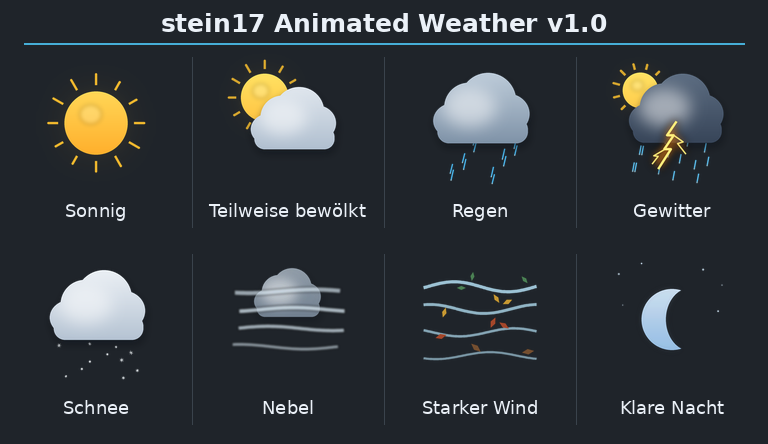
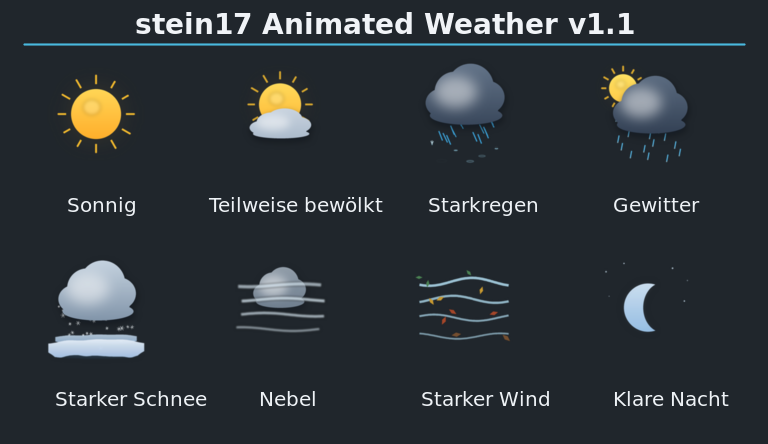
Update stein17 Animated Weather to v1.1

diff --git a/BundesligaWQHD/usr/lib/enigma2/python/Components/Renderer/BLWQHDAnimatedWeatherPixmap.py b/BundesligaWQHD/usr/lib/enigma2/python/Components/Renderer/BLWQHDAnimatedWeatherPixmap.py
@@ -90,6 +90,7 @@ class BLWQHDAnimatedWeatherPixmap(Renderer):
 		self.frames = []
 		self.frameIndex = 0
 		self.animationPath = ""
+		self.conditionText = ""
 
 	@classmethod
 	def getWeatherMap(cls, animationPath):
@@ -154,6 +155,55 @@ class BLWQHDAnimatedWeatherPixmap(Renderer):
 				code = ""
 		return code.upper() if code else "NA"
 
+	def getConditionText(self):
+		"""Liest den zum Widget gehoerenden OAWeather-Beschreibungstext.
+
+		MSN liefert gelegentlich fuer "teilweise sonnig" und "teilweise
+		bewoelkt" denselben Yahoo-Code. Der Text bleibt aber verschieden und
+		erlaubt dem Renderer deshalb eine eindeutige Motivauswahl.
+		"""
+		try:
+			converter = self.source
+			index = getattr(converter, "index", None)
+			weatherSource = getattr(converter, "source", None)
+			if index is not None and weatherSource is not None:
+				return str(weatherSource.getKeyforDay("text", index, "") or "").strip()
+		except Exception:
+			pass
+		return ""
+
+	def getMappedFolder(self, code, animationPath, conditionText=""):
+		mapping = self.getWeatherMap(animationPath)
+		entry = mapping.get(code, mapping.get("NA", {}))
+		folder = entry.get("icon", "") if isinstance(entry, dict) else str(entry)
+		text = ""
+		if conditionText:
+			text = conditionText.casefold().replace("ä", "ae").replace("ö", "oe").replace("ü", "ue")
+
+		# Die beiden verwechselbaren Tagesvarianten anhand des Textes trennen.
+		if code in ("30", "34") and text:
+			if any(word in text for word in ("sonnig", "heiter", "sunny", "fair")):
+				folder = "mostly-sunny-day"
+			elif any(word in text for word in ("bewoelkt", "cloudy")):
+				folder = "partly-cloudy-day"
+
+		# MSN/OAWeather kann auch bei Regenlagen unterschiedliche Codes mit
+		# demselben sichtbaren Text liefern. Nur eindeutig benannte Regenstufen
+		# werden deshalb textbasiert vereinheitlicht; Schauer und Gewitter
+		# bleiben weiterhin vollständig mapping.json-gesteuert.
+		if text:
+			if any(word in text for word in ("gefrierender regen", "gefrierender nieselregen", "freezing rain", "freezing drizzle")):
+				folder = "freezing-rain"
+			elif any(word in text for word in ("starker regen", "starkregen", "heavy rain", "heavy rainfall")):
+				folder = "heavy-rain"
+			elif any(word in text for word in ("leichter regen", "leichter regenfall", "light rain", "light rainfall")):
+				folder = "light-rain"
+			elif any(word in text for word in ("nieselregen", "spruehregen", "drizzle")):
+				folder = "drizzle"
+			elif text.strip(" .,-") in ("regen", "regenfall", "rain", "rainfall"):
+				folder = "rain"
+		return folder
+
 	def animationEnabled(self):
 		if weather_animation_config is None:
 			return True
@@ -171,10 +221,8 @@ class BLWQHDAnimatedWeatherPixmap(Renderer):
 			value = DEFAULT_FRAME_INTERVAL
 		return max(100, min(500, value))
 
-	def loadFrames(self, code, animationPath):
-		mapping = self.getWeatherMap(animationPath)
-		entry = mapping.get(code, mapping.get("NA", {}))
-		folder = entry.get("icon", "") if isinstance(entry, dict) else str(entry)
+	def loadFrames(self, code, animationPath, conditionText=""):
+		folder = self.getMappedFolder(code, animationPath, conditionText)
 		framePath = join(animationPath, folder)
 		frames = []
 		if folder and exists(framePath):
@@ -205,6 +253,7 @@ class BLWQHDAnimatedWeatherPixmap(Renderer):
 			_AnimationClock.remove(self)
 			self.code = ""
 			self.animationPath = ""
+			self.conditionText = ""
 			self.frames = []
 			self.instance.hide()
 			return
@@ -217,13 +266,15 @@ class BLWQHDAnimatedWeatherPixmap(Renderer):
 			return
 
 		code = self.getWeatherCode()
+		conditionText = self.getConditionText()
 		animationPath = self.getAnimationPath()
-		if code == self.code and animationPath == self.animationPath and self.frames:
+		if code == self.code and animationPath == self.animationPath and conditionText == self.conditionText and self.frames:
 			return
 		_AnimationClock.remove(self)
 		self.code = code
 		self.animationPath = animationPath
-		self.frames = self.loadFrames(code, animationPath)
+		self.conditionText = conditionText
+		self.frames = self.loadFrames(code, animationPath, conditionText)
 		self.frameIndex = 0
 		if not self.frames:
 			self.showStaticFallback()

diff --git a/BundesligaFHD/usr/lib/enigma2/python/Components/Renderer/BLFHDAnimatedWeatherPixmap.py b/BundesligaFHD/usr/lib/enigma2/python/Components/Renderer/BLFHDAnimatedWeatherPixmap.py
@@ -90,6 +90,7 @@ class BLFHDAnimatedWeatherPixmap(Renderer):
 		self.frames = []
 		self.frameIndex = 0
 		self.animationPath = ""
+		self.conditionText = ""
 
 	@classmethod
 	def getWeatherMap(cls, animationPath):
@@ -154,6 +155,55 @@ class BLFHDAnimatedWeatherPixmap(Renderer):
 				code = ""
 		return code.upper() if code else "NA"
 
+	def getConditionText(self):
+		"""Liest den zum Widget gehoerenden OAWeather-Beschreibungstext.
+
+		MSN liefert gelegentlich fuer "teilweise sonnig" und "teilweise
+		bewoelkt" denselben Yahoo-Code. Der Text bleibt aber verschieden und
+		erlaubt dem Renderer deshalb eine eindeutige Motivauswahl.
+		"""
+		try:
+			converter = self.source
+			index = getattr(converter, "index", None)
+			weatherSource = getattr(converter, "source", None)
+			if index is not None and weatherSource is not None:
+				return str(weatherSource.getKeyforDay("text", index, "") or "").strip()
+		except Exception:
+			pass
+		return ""
+
+	def getMappedFolder(self, code, animationPath, conditionText=""):
+		mapping = self.getWeatherMap(animationPath)
+		entry = mapping.get(code, mapping.get("NA", {}))
+		folder = entry.get("icon", "") if isinstance(entry, dict) else str(entry)
+		text = ""
+		if conditionText:
+			text = conditionText.casefold().replace("ä", "ae").replace("ö", "oe").replace("ü", "ue")
+
+		# Die beiden verwechselbaren Tagesvarianten anhand des Textes trennen.
+		if code in ("30", "34") and text:
+			if any(word in text for word in ("sonnig", "heiter", "sunny", "fair")):
+				folder = "mostly-sunny-day"
+			elif any(word in text for word in ("bewoelkt", "cloudy")):
+				folder = "partly-cloudy-day"
+
+		# MSN/OAWeather kann auch bei Regenlagen unterschiedliche Codes mit
+		# demselben sichtbaren Text liefern. Nur eindeutig benannte Regenstufen
+		# werden deshalb textbasiert vereinheitlicht; Schauer und Gewitter
+		# bleiben weiterhin vollständig mapping.json-gesteuert.
+		if text:
+			if any(word in text for word in ("gefrierender regen", "gefrierender nieselregen", "freezing rain", "freezing drizzle")):
+				folder = "freezing-rain"
+			elif any(word in text for word in ("starker regen", "starkregen", "heavy rain", "heavy rainfall")):
+				folder = "heavy-rain"
+			elif any(word in text for word in ("leichter regen", "leichter regenfall", "light rain", "light rainfall")):
+				folder = "light-rain"
+			elif any(word in text for word in ("nieselregen", "spruehregen", "drizzle")):
+				folder = "drizzle"
+			elif text.strip(" .,-") in ("regen", "regenfall", "rain", "rainfall"):
+				folder = "rain"
+		return folder
+
 	def animationEnabled(self):
 		if weather_animation_config is None:
 			return True
@@ -171,10 +221,8 @@ class BLFHDAnimatedWeatherPixmap(Renderer):
 			value = DEFAULT_FRAME_INTERVAL
 		return max(100, min(500, value))
 
-	def loadFrames(self, code, animationPath):
-		mapping = self.getWeatherMap(animationPath)
-		entry = mapping.get(code, mapping.get("NA", {}))
-		folder = entry.get("icon", "") if isinstance(entry, dict) else str(entry)
+	def loadFrames(self, code, animationPath, conditionText=""):
+		folder = self.getMappedFolder(code, animationPath, conditionText)
 		framePath = join(animationPath, folder)
 		frames = []
 		if folder and exists(framePath):
@@ -205,6 +253,7 @@ class BLFHDAnimatedWeatherPixmap(Renderer):
 			_AnimationClock.remove(self)
 			self.code = ""
 			self.animationPath = ""
+			self.conditionText = ""
 			self.frames = []
 			self.instance.hide()
 			return
@@ -217,13 +266,15 @@ class BLFHDAnimatedWeatherPixmap(Renderer):
 			return
 
 		code = self.getWeatherCode()
+		conditionText = self.getConditionText()
 		animationPath = self.getAnimationPath()
-		if code == self.code and animationPath == self.animationPath and self.frames:
+		if code == self.code and animationPath == self.animationPath and conditionText == self.conditionText and self.frames:
 			return
 		_AnimationClock.remove(self)
 		self.code = code
 		self.animationPath = animationPath
-		self.frames = self.loadFrames(code, animationPath)
+		self.conditionText = conditionText
+		self.frames = self.loadFrames(code, animationPath, conditionText)
 		self.frameIndex = 0
 		if not self.frames:
 			self.showStaticFallback()

diff --git a/BundesligaFHD/usr/lib/enigma2/python/Plugins/Extensions/BundesligaFHD/weathericons.py b/BundesligaFHD/usr/lib/enigma2/python/Plugins/Extensions/BundesligaFHD/weathericons.py
@@ -54,23 +54,23 @@ ICONSETS = (
     },
     {
         "id": "stein17-animated-v1.0",
-        "title": "stein17 Animated Weather v1.0",
+        "title": "stein17 Animated Weather v1.1",
         "bundled_default": False,
         "license": "Copyright stein17 - private Nutzung",
         "packages": {
             "fhd": {
-                "file": "stein17-animated-v1.0-fhd-144.zip",
-                "bytes": 11511154,
[1 lines of base64/hex data omitted]
-                "archive_root": "stein17-animated-v1.0-fhd-144",
-                "icon_size": 144,
+                "file": "stein17-animated-v1.1-universal-180.zip",
+                "bytes": 17897047,
[1 lines of base64/hex data omitted]
+                "archive_root": "stein17-animated-v1.0",
+                "icon_size": 180,
             },
             "wqhd": {
-                "file": "stein17-animated-v1.0-wqhd-192.zip",
-                "bytes": 22677725,
[1 lines of base64/hex data omitted]
-                "archive_root": "stein17-animated-v1.0-wqhd-192",
-                "icon_size": 192,
+                "file": "stein17-animated-v1.1-universal-180.zip",
+                "bytes": 17897047,
[1 lines of base64/hex data omitted]
+                "archive_root": "stein17-animated-v1.0",
+                "icon_size": 180,
             },
         },
     },

diff --git a/BundesligaWQHD/usr/lib/enigma2/python/Plugins/Extensions/BundesligaWQHD/weathericons.py b/BundesligaWQHD/usr/lib/enigma2/python/Plugins/Extensions/BundesligaWQHD/weathericons.py
@@ -54,23 +54,23 @@ ICONSETS = (
     },
     {
         "id": "stein17-animated-v1.0",
-        "title": "stein17 Animated Weather v1.0",
+        "title": "stein17 Animated Weather v1.1",
         "bundled_default": False,
         "license": "Copyright stein17 - private Nutzung",
         "packages": {
             "fhd": {
-                "file": "stein17-animated-v1.0-fhd-144.zip",
-                "bytes": 11511154,
[1 lines of base64/hex data omitted]
-                "archive_root": "stein17-animated-v1.0-fhd-144",
-                "icon_size": 144,
+                "file": "stein17-animated-v1.1-universal-180.zip",
+                "bytes": 17897047,
[1 lines of base64/hex data omitted]
+                "archive_root": "stein17-animated-v1.0",
+                "icon_size": 180,
             },
             "wqhd": {
-                "file": "stein17-animated-v1.0-wqhd-192.zip",
-                "bytes": 22677725,
[1 lines of base64/hex data omitted]
-                "archive_root": "stein17-animated-v1.0-wqhd-192",
-                "icon_size": 192,
+                "file": "stein17-animated-v1.1-universal-180.zip",
+                "bytes": 17897047,
[1 lines of base64/hex data omitted]
+                "archive_root": "stein17-animated-v1.0",
+                "icon_size": 180,
             },
         },
     },

diff --git a/weather-iconsets/README.md b/weather-iconsets/README.md
@@ -13,14 +13,18 @@ SHA-256-Prüfsummen.
 Verfügbare Designs:
 
 - Meteocons 2 Fill (Standard, MIT)
-- stein17 Animated Weather v1.0 (private Nutzung; keine Weiterverteilung ohne
+- stein17 Animated Weather v1.1 (private Nutzung; keine Weiterverteilung ohne
   schriftliche Genehmigung von stein17)
 - amCharts 1.0.0 (CC BY 4.0)
 - Meteocons 3 Flat (MIT)
 - Meteocons 3 Line (MIT)
 - Meteocons 3 Monochrome White (MIT)
 
-Für FHD werden 144 × 144 Pixel große Frames verwendet, für WQHD 192 × 192
-Pixel. Jedes Motiv besitzt 24 Frames. Der Installer akzeptiert ausschließlich
-die im Katalog festgelegten Dateien und prüft sie vollständig, bevor er ein
+Die öffentlichen Meteocons- und amCharts-Pakete verwenden für FHD 144 × 144
+Pixel und für WQHD 192 × 192 Pixel. **stein17 Animated Weather v1.1** verwendet
+ein gemeinsames Paket mit 180 × 180 Pixeln für beide Skins. Dadurch muss das
+große eigene Set nur einmal als Release-Asset bereitgestellt werden.
+
+Jedes Motiv besitzt 24 Frames. Der Installer akzeptiert ausschließlich die im
+Katalog festgelegten Dateien und prüft sie vollständig, bevor er ein
 vorhandenes optionales Set ersetzt.
